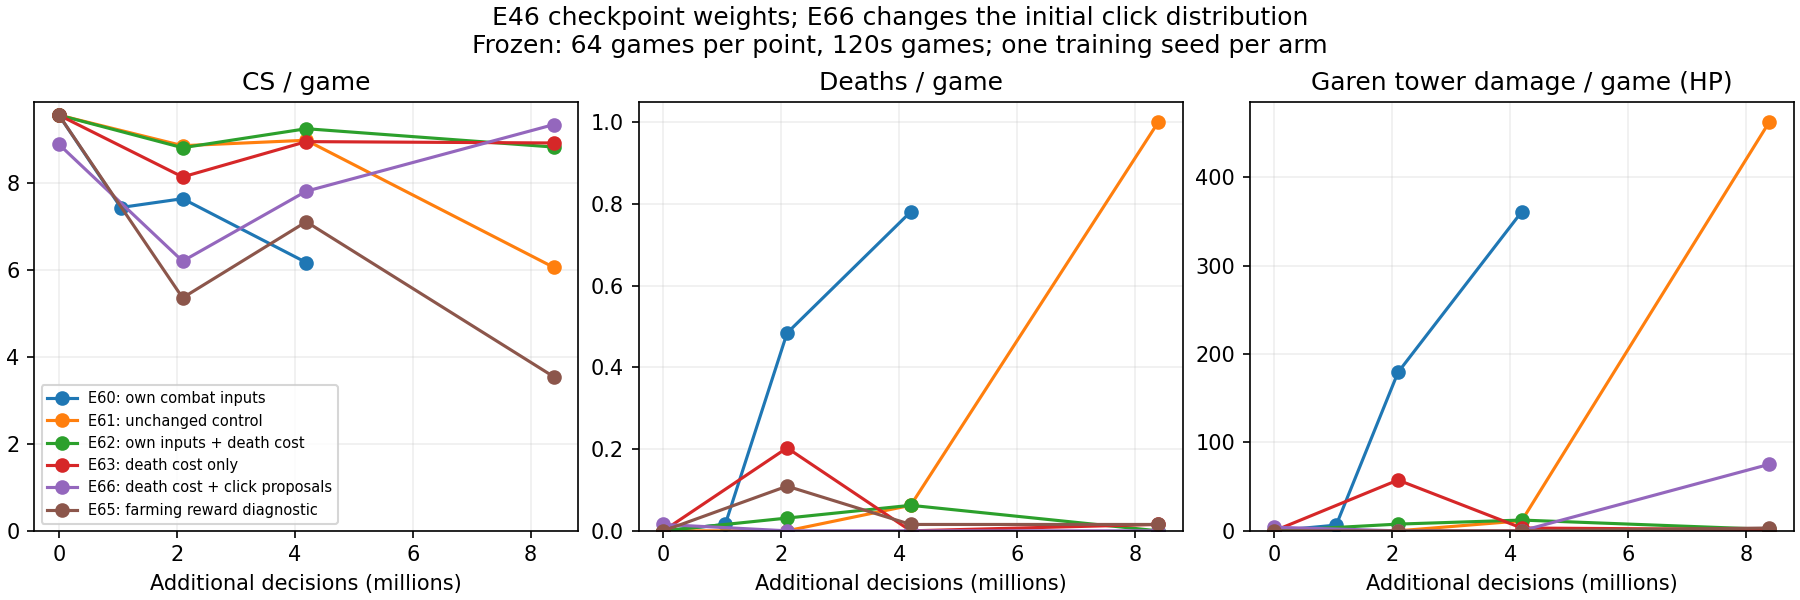
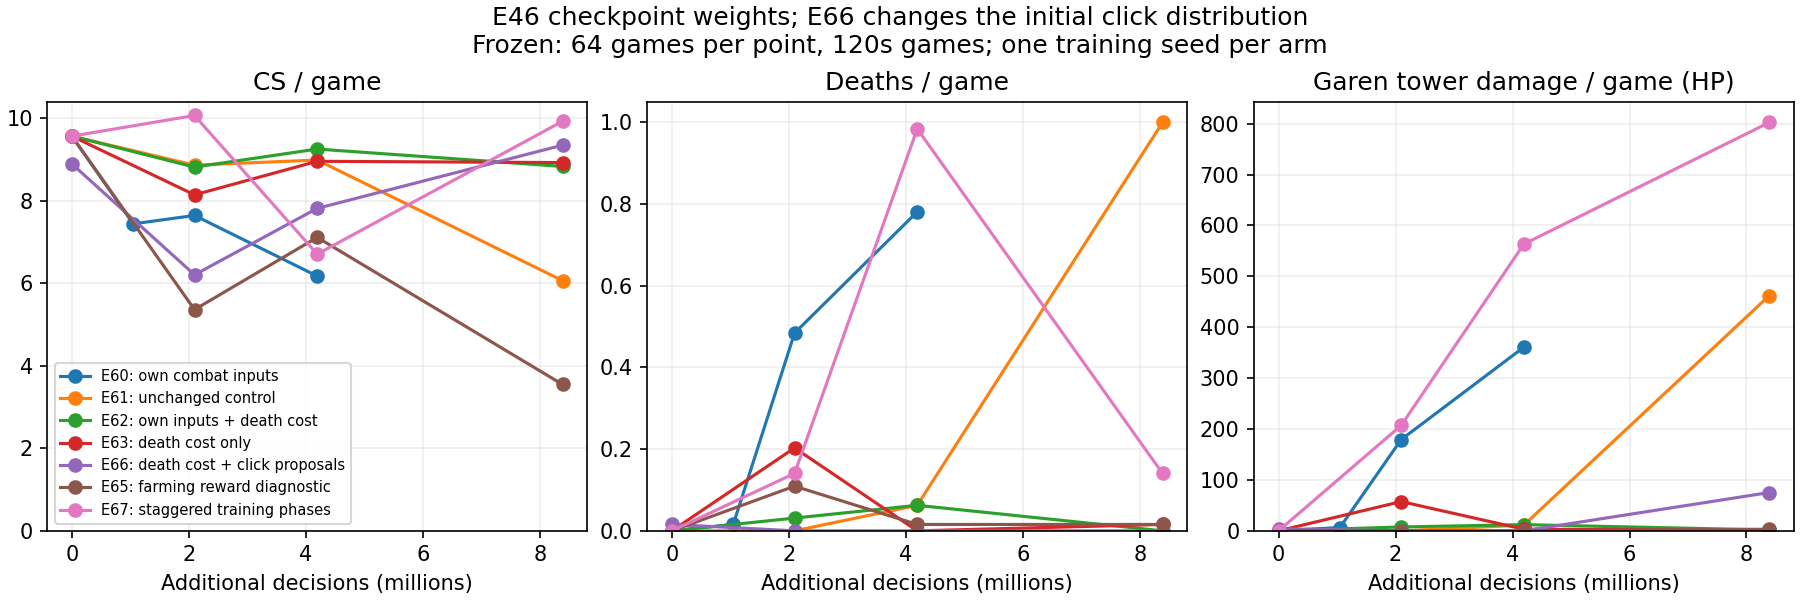
Record E67 final and budget-limited research handoff

diff --git a/STATUS.md b/STATUS.md
@@ -1,4 +1,4 @@
-# STATUS — 2026-10-01 10:49 UTC
+# STATUS — 2026-10-01 11:30 UTC
 
 Current task: diagnose and improve JAX AFK farming, using frozen 120-second
 trials. No demonstrated solution yet. Dani authorizes bounded reversible
@@ -6,20 +6,23 @@ experiments through **15:37 UTC today**; preserve checkpoints and use Slurm.
 Longer-term transfer gate remains >30 CS in a 10-minute C# mirror trial.
 History and evidence: `docs/EXPERIMENTS.md`, `docs/JAX_FIDELITY_LEDGER.md`.
 
-## Running
+## No active runs — token budget reached
 
-**E67_afk_staggered — Slurm1833**, started10:47UTC,1-hour allocation.
-15standardGPUcanaries passed364.28s; additional warmup/GRU canary passed80.81s;
-launcher180s startup watch passed. Bridge lanerl-event-1833.service verified
-active/result updating, expiry2026-10-01T12:54:52.537235+00:00. Fullsize warmup passed:180224untrained decisions, all deadlines full.
-Frozen initial exactly9.5625CS/0deaths; u12810.0625CS/.140625deaths/207.2674towerHP.
-Promising CS direction but fails survival gate; continue512budget.
-Same E63 full objective and PPO: E46/v3/freshAdam/LR1e-4/4epochs/gamma.99,
-XP0/HP100/personal tower900/death300. Only training phases differ.
-Fixed-policy warmup discards initial shortened episodes; then all training games
-and frozen evaluations retain120s length.512updates8.389M plus180224untrained
-warmup decisions. Success>=10.5625CS/<=.05deaths, sameinitial9.5625CS required.
-Expected finish11:25–11:35UTC. Log `/mnt/nfs/shared/E67_afk_staggered-1833.out`.
+All this thread's submitted runs finished; no new experiment authorized beyond
+the exhausted1M-token goal budget. No solution demonstrated. GPU window had
+remaining time, but token budget is the stopping constraint. Existing checkpoints
+and opt-in implementations retained. E64 remains prepared, not submitted.
+
+E67 Slurm1833 COMPLETED/0:0 in41m44s. Frozen CS9.5625→10.0625→6.703125→9.921875;
+final deaths.140625/personal towerHP802.399197/reward24.160935. Final reward
+components:gold7.710979,death−2.109375,health−4.736133,tower23.295461,position~0.
+Staggering greatly improved tower play in this seed, but failed predeclared
+CS>=10.5625/deaths<=.05 gate. No independent-seed confirmation or farming fix.
+Checkpointstep8388608 finite/latest identical,512metrics/nonfinite0,
+medianupdate3.63235s. Fullsize warmup discarded180224untrained decisions;
+initial frozen gameplay exactly matchedE46. Watcher1833 stopped after active
+review; inactive/registry clean. Run
+`/mnt/nfs/checkpoints/lanerl-jax/E67_afk_staggered/vec-s0-20261001-105559-3d1c1096/`.
 
 E65 Slurm1832 COMPLETED/0:0 in38m01s. FrozenCS9.5625→5.359375→7.109375→3.546875;
 final deaths.015625/towerHP3.191875/reward1.953154. Reward terms:gold2.210945,
@@ -59,7 +62,11 @@ Watcher1831 stopped after active review; inactive and registry clean.
   and checkpoints as evidence; do not describe higher total reward as a CS fix.
 - E65 failed the simpler farming objective. Secondary reward conflict alone
   is not a sufficient explanation; do not promote reward removal as a fix.
-- E67 now tests training batch phase diversity; LEARN-AFK-20.
+- E67 demonstrates much stronger tower learning in one seed, not reliable
+  farming improvement. A useful next controlled test is E65 farming-focused
+  rewards with E67 phase staggering, compared against both parents. NOT
+  implemented/submitted. If it improves CS, independently replicate and then
+  restore/validate the intended full objective before claiming a solution.
 - E64 longer discount horizon remains prepared, dry-run passed, NOT submitted.
 
 Older E40 mirror training remains interrupted at5795updates; checkpoint

diff --git a/docs/EXPERIMENTS.md b/docs/EXPERIMENTS.md
@@ -8,7 +8,7 @@ CS (changing weights) is labelled `train`; diagnostic scores are not transfer re
 | Run dir (under `lanerl_jax/runs/`) | Date | Engine | Task | Learner | Budget | Result | Verdict |
 |---|---|---|---|---|---|---|---|
 | `E60_afk_own_action` |10-01| JAX AFK PPO | Own combat state inputs, zero-weight migration |E46/freshAdam,4epochs|256updates4.194M| Slurm1827 complete23m29s; final6.1719CS/.78125deaths/361towerHP; reward9.852 versus6.329initial; farming gate failed | Compare E57@128/E61@256, original9.56CS |
-| `E67_afk_staggered` |10-01| JAX AFK PPO | Unsynchronized training phases, full-game evaluation |E46/v3/freshAdam, E63 rewards|512updates8.389M +180224untrained warmup decisions| Slurm1833 running;16GPUcanaries/180s watch passed;bridge armed | Tests batch temporal diversity; requires original frozen baseline and independent replication |
+| `E67_afk_staggered` |10-01| JAX AFK PPO | Unsynchronized training phases, full-game evaluation |E46/v3/freshAdam, E63 rewards|512updates8.389M +180224untrained warmup decisions| Slurm1833 COMPLETED/0:0,41m44s;final9.921875CS/.140625deaths/802.40towerHP;farming/survival gate failed | Tests batch temporal diversity; requires original frozen baseline and independent replication |
 | `E66_afk_click_proposals` |10-01| JAX AFK PPO | Learned observed-entity screen-cell proposals |E46/freshAdam,v3,4epochs|512updates8.389M| Slurm1831 COMPLETED/0:0,43m32s;final9.34375CS/0deaths/75.22towerHP;farming gate failed | Requires gain over both old and new initial policy; physical clicks unchanged |
 | `E65_afk_cs_focus` |10-01| JAX AFK PPO diagnostic | Farming-only positive objective; death300 retained |E46/freshAdam,v3,4epochs|512updates8.389M| Slurm1832 COMPLETED/0:0,38m01s;final3.546875CS/.015625deaths;failed farming gate | Separate farming learnability from HP/tower reward tradeoffs; not final task |
 | `E64_afk_long_horizon` |10-01| JAX AFK PPO | Gamma.999 with corrected death reward/v3 |E46/freshAdam,4epochs|512updates8.389M| Prepared, conditional; not submitted | One-factor discount comparison against E63 |

diff --git a/docs/JAX_FIDELITY_LEDGER.md b/docs/JAX_FIDELITY_LEDGER.md
@@ -695,3 +695,5 @@ History lives in `docs/EXPERIMENTS.md` and `docs/JAX_FIDELITY_LEDGER.md`.
 | LEARN-AFK-20 startup verified | E67 Slurm1833 passed15standardGPUcanaries364.28s and1realGRU stagger-warmup test80.81s: weights/optimizer/step unchanged, deadlines full, realphase spread, subsequentdone=done_full and collector/learner likelihood agree. Launcher180s watch passed. Bridge lanerl-event-1833.service active/result updating, expires2026-10-01T12:54:52.537235+00:00. | Fullsize warmup/initial frozen evaluation pending; no learning claim. |
 
 | LEARN-AFK-20 u128 | E67 fullsize stagger warmup passed, frozen initial exactly9.5625CS/0deaths/0towerHP/reward6.329263. Frozenu12810.0625CS/.140625deaths/207.267403towerHP/reward9.270423. | First positive CS direction in this control series but below>=10.5625CS and above<=.05death thresholds. No solution claim; finish512budget, independentseed validation required if final passes. |
+
+| LEARN-AFK-20 final | E67 Slurm1833 COMPLETED/0:0,41m44s. FrozenCS9.5625→10.0625→6.703125→9.921875; finaldeaths.140625/towerHP802.399197/reward24.160935. Reward terms gold7.710979/death−2.109375/health−4.736133/tower23.295461/position~0. Step8388608 finite/latestidentical,512metrics/nonfinite0,medianupdate3.63235s; SHA7f12479d61db507d23806822a6c5b1d4b129bd58fd9e83b2bed1c06621d0fe55. | Strong tower improvement in one seed but fails farming/survival gate; no independentseed validation or solutionclaim. Watcher stoppedafteractive review, inactive/registryclean. Goal tokenbudget exhausted; no newruns. Proposed next factorial comparison: farming-focused E65 rewards plus E67 phase staggering; not implemented/submitted. |
